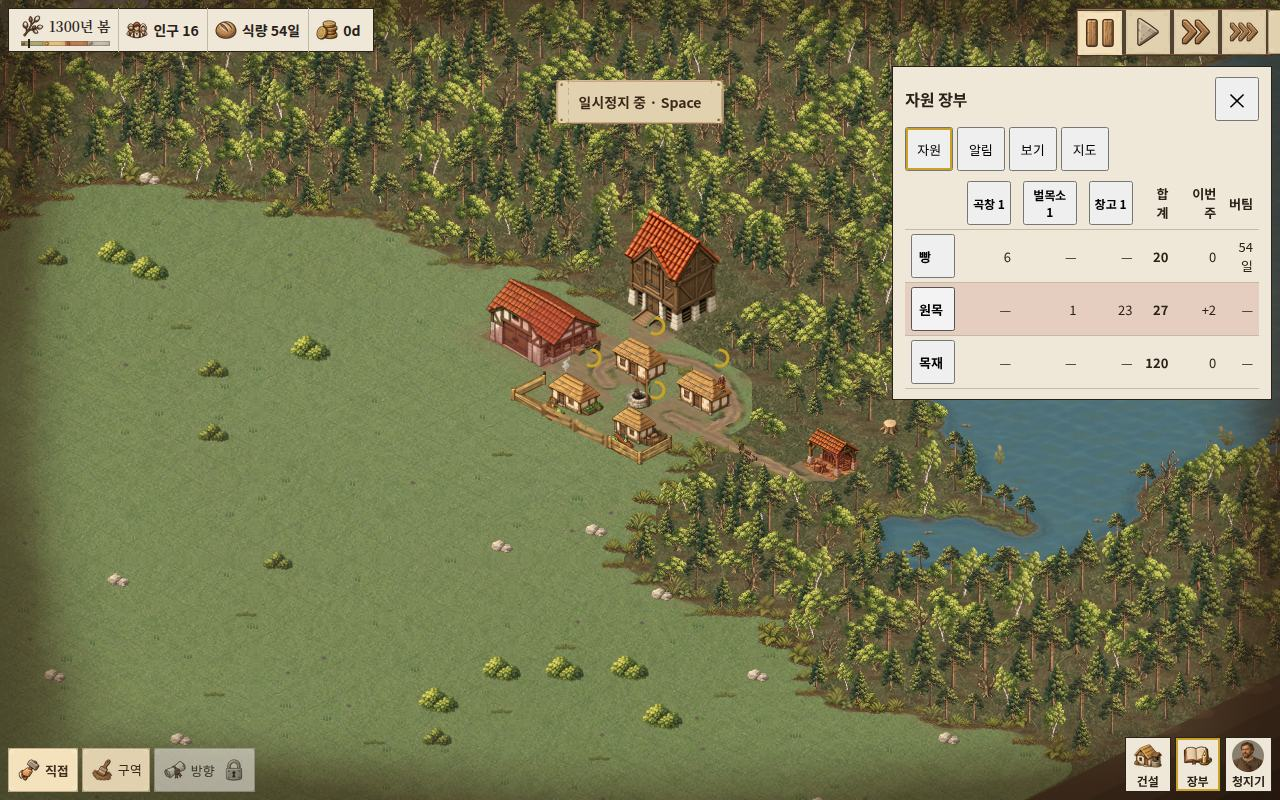
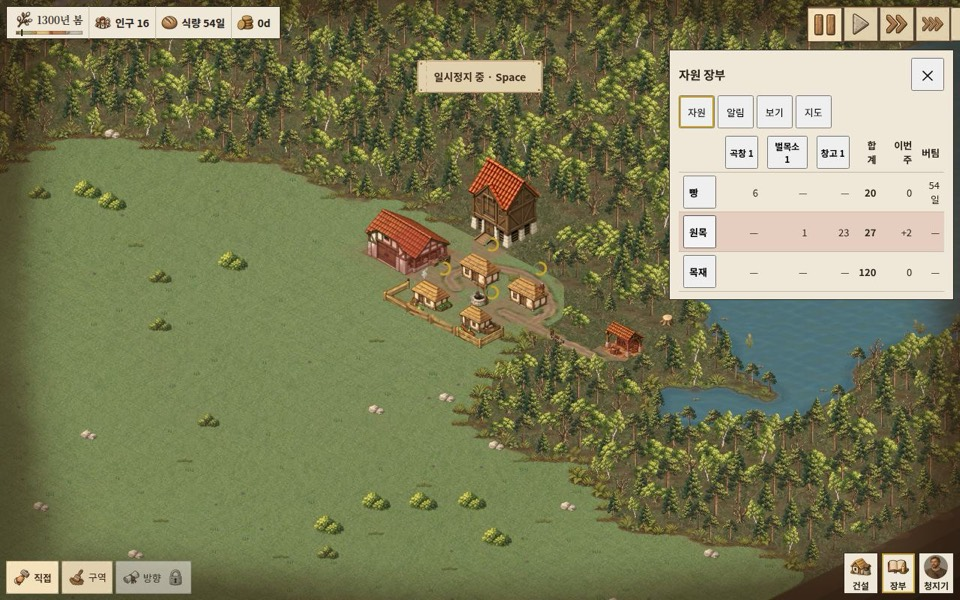
UX-3R2: report, evidence (JPEG, 1.4 MB), design US-5..US-8 and decisions US-D9..D16, STATUS and roadmap (UX-3R2 done); ledger cells stay on one line

diff --git a/docs/ROADMAP.html b/docs/ROADMAP.html
@@ -233,7 +233,7 @@ details summary{cursor:pointer;font-weight:600}
 <li>변경은 문서 하단 이력에 한 줄(날짜·세션·무엇).</li>
 <li>이 문서와 <code>AGENTS.md</code>·<code>CLAUDE.md</code>가 충돌하면 이 문서가 우선이고, 충돌을 이력에 적는다.</li>
 </ol>
-<details><summary>변경 이력</summary><ul id="history"><li>2026-09-26 · Claude(프로젝트 대화) · v5.1 최초 작성(조사 12·13·14·15 반영)</li><li>2026-09-26 · Claude · 기록·연대기 설계 v1 반영: F0-C2 기록 원장, CHRON-1 연대기 화면, CHRON-2 세력 연대기 추가(정체성 6 "모든 것이 남는다")</li><li>2026-09-26 · Claude Code(인프라·문서 세션, DOC-1) · 저장소에 넣음(설계 docs/design/CHRONICLE_DESIGN.md 함께). TASKS를 본선 25820693 기준으로 맞춤: INSTALL-7·INSTALL-11·REMOTE-1 완료, UX-3R 진행 중, F0-B·F0-C1·F0-V·INBOX 비고 갱신, R0(완료) 추가. 충돌 2건: ① 헌장 4절 "merge·push → 브랜치 삭제"와 AGENTS.md 규칙 14 "브랜치 삭제는 명시 지시가 있을 때만" — 사용자 판정 전까지 규칙 14를 따른다 ② 이 문서 1절은 정체성 6("모든 것이 남는다")을 더했지만 CHARTER.md·AGENTS.md 0절은 "정체성 다섯" — 이 문서가 우선, 헌장 반영은 사용자 판정 대기</li><li>2026-09-26 · Claude Code(인프라·문서 세션) · 사용자 판정으로 두 충돌 해소: ① AGENTS.md 규칙 14를 "병합 뒤 브랜치 삭제가 기본, 지시서가 남겨 두라고 명시하면 예외"로 고쳐 헌장 4절과 맞춤 ② 정체성 6 "모든 것이 남는다"를 CHARTER.md·AGENTS.md 0절·CLAUDE.md에 넣어 여섯으로 맞춤</li><li>2026-09-26 · Claude Code(렌더 세션) · UX-3R 1차 병합(done), 2차를 UX-3R2(todo)로 나눔</li><li>2026-09-26 · Claude Code(렌더 세션) · UI-3 병합(done)</li><li>2026-09-26 · Claude Code(엔진 세션) · F0-C1 완료(1장 완주 5/5, 가드레일 4/5 seed 3 알려진 정지 FC11), BOT-2 범위에 통나무 넘침 추가(사용자 지시)</li><li>2026-09-26 · Claude Code(엔진 세션) · F0-C2 완료(기록 원장 v0, seed 2 1장 2,806건·+765KB, 가드레일 4/5 seed 3 알려진 정지 FC11)</li><li>2026-09-26 · Claude Code(렌더 세션) · J1 판정 네 가지 반영(done): 식량 저장분만·도착점 병기, 키아트 빌드 시 파생본, 돈 = 페니</li></ul></details>
+<details><summary>변경 이력</summary><ul id="history"><li>2026-09-26 · Claude(프로젝트 대화) · v5.1 최초 작성(조사 12·13·14·15 반영)</li><li>2026-09-26 · Claude · 기록·연대기 설계 v1 반영: F0-C2 기록 원장, CHRON-1 연대기 화면, CHRON-2 세력 연대기 추가(정체성 6 "모든 것이 남는다")</li><li>2026-09-26 · Claude Code(인프라·문서 세션, DOC-1) · 저장소에 넣음(설계 docs/design/CHRONICLE_DESIGN.md 함께). TASKS를 본선 25820693 기준으로 맞춤: INSTALL-7·INSTALL-11·REMOTE-1 완료, UX-3R 진행 중, F0-B·F0-C1·F0-V·INBOX 비고 갱신, R0(완료) 추가. 충돌 2건: ① 헌장 4절 "merge·push → 브랜치 삭제"와 AGENTS.md 규칙 14 "브랜치 삭제는 명시 지시가 있을 때만" — 사용자 판정 전까지 규칙 14를 따른다 ② 이 문서 1절은 정체성 6("모든 것이 남는다")을 더했지만 CHARTER.md·AGENTS.md 0절은 "정체성 다섯" — 이 문서가 우선, 헌장 반영은 사용자 판정 대기</li><li>2026-09-26 · Claude Code(인프라·문서 세션) · 사용자 판정으로 두 충돌 해소: ① AGENTS.md 규칙 14를 "병합 뒤 브랜치 삭제가 기본, 지시서가 남겨 두라고 명시하면 예외"로 고쳐 헌장 4절과 맞춤 ② 정체성 6 "모든 것이 남는다"를 CHARTER.md·AGENTS.md 0절·CLAUDE.md에 넣어 여섯으로 맞춤</li><li>2026-09-26 · Claude Code(렌더 세션) · UX-3R 1차 병합(done), 2차를 UX-3R2(todo)로 나눔</li><li>2026-09-26 · Claude Code(렌더 세션) · UI-3 병합(done)</li><li>2026-09-26 · Claude Code(엔진 세션) · F0-C1 완료(1장 완주 5/5, 가드레일 4/5 seed 3 알려진 정지 FC11), BOT-2 범위에 통나무 넘침 추가(사용자 지시)</li><li>2026-09-26 · Claude Code(엔진 세션) · F0-C2 완료(기록 원장 v0, seed 2 1장 2,806건·+765KB, 가드레일 4/5 seed 3 알려진 정지 FC11)</li><li>2026-09-26 · Claude Code(렌더 세션) · J1 판정 네 가지 반영(done): 식량 저장분만·도착점 병기, 키아트 빌드 시 파생본, 돈 = 페니</li><li>2026-09-26 · Claude Code(렌더 세션) · UX-3R2 병합(done)</li></ul></details>
 </div>
 </section>
 </main>
@@ -261,7 +261,7 @@ const TASKS = [
  {id:"INSTALL-11", phase:"F0", track:"렌더", title:"건물 계열별 공사 키트(Wave 11)", status:"done", gate:"계열 4×4단계 캡처", deps:["INSTALL-7"], note:"121e16b8 · 관문 ①~⑥ 통과, 클론 5956193 2,954/2,954"},
  {id:"UX-3R", phase:"F0", track:"렌더", title:"UI 상태 기계·상시 4항목·행동 도크·건설 서랍·배치 색+패턴+이유 (조사 15, 1차)", status:"done", gate:"상태별 면적 예산 자동 측정 · 도구 선택 전 안내 0 · 회귀 0", deps:["INSTALL-11"], note:"1차 병합 · 면적 18/18, 튜토리얼 13·B9 13/13·TOUCH-1, 클론 9d355f3 3,001/3,001 · 사용자 판정 대기"},
  {id:"J1", phase:"F0", track:"렌더", title:"사용자 판정 네 가지: 식량 N일(저장분만, 도착점 병기)·결산 카드 켬·키아트 웹 파생본·돈 = 페니", status:"done", gate:"새 게임 270일 확인 · 파생본 300KB 안팎", note:"본선 병합"},
- {id:"UX-3R2", phase:"F0", track:"렌더", title:"UX-3 수정본 2차: 구역 도구 막대·칠할 땅 오버레이·저장소/공사장 inspector·장부 행 강조·태블릿 확정 막대·길 클릭-클릭", status:"todo", gate:"구역·선택 면적 예산 · B9 새 기준(선 도구) · 회귀 0", deps:["UX-3R"]},
+ {id:"UX-3R2", phase:"F0", track:"렌더", title:"UX-3 수정본 2차: 구역 판·칠할 땅 오버레이·저장소/공사장 inspector·장부 행렬·길/목책 클릭-클릭·태블릿 확정 막대", status:"done", gate:"구역·선택 면적 예산 · B9 새 기준(선 도구) · 회귀 0", deps:["UX-3R"], note:"관문 ①~⑦ 통과(면적 24/24, 튜토리얼 22=22, B9·TOUCH 14/14) · 받는 품목 토글은 엔진 대기(FC10) · 사용자 판정 대기"},
  {id:"INSTALL-18", phase:"F0", track:"렌더", title:"최소 HUD 아이콘·패턴 교체(Wave 18)", status:"todo", gate:"흑백에서 가능/불가 구분", deps:["UX-3R"]},
  {id:"UI-3", phase:"F0", track:"렌더", title:"계절 결산 카드·계절 띠·배치 장부 예측·압력 원인·보릿고개 경고·타이틀(Wave 8) — UX-3 규칙 위에", status:"done", gate:"결산 캡처 3계절 · 예측 줄 = 실제 장부", deps:["UX-3R"], note:"관문 ①~⑦ 통과, 클론 dca8c3a 3,006/3,006 · 청원·연대기 틀은 등록만 · 사용자 판정 대기"},
  {id:"UI-4", phase:"F0", track:"렌더", title:"사건 카드·대기근 결정·청원·연대기·장 끝 + Wave 9·16 설치 + S12 짐 진 가족", status:"todo", gate:"1장 사건 전부 화면에 · 연대기 1쪽", deps:["UI-3","F0-C1","F0-C2"]},

diff --git a/src/styles/hudShell.css b/src/styles/hudShell.css
@@ -63,7 +63,7 @@
 .app-shell .ledger-tab { min-height: 44px; padding: 0 10px; font-size: 13px; }
 .app-shell .ledger-tab[aria-selected="true"] { outline: 2px solid var(--palette-gold); outline-offset: -3px; }
 .app-shell .ledger-matrix { width: 100%; border-collapse: collapse; font-size: 13px; }
-.app-shell .ledger-matrix :is(th, td) { padding: 4px 6px; text-align: right; border-bottom: 1px solid var(--palette-parchment-dark); }
+.app-shell .ledger-matrix :is(th, td) { padding: 4px 6px; text-align: right; white-space: nowrap; border-bottom: 1px solid var(--palette-parchment-dark); }
 .app-shell .ledger-matrix th[scope="row"] { text-align: left; }
 .app-shell .ledger-store { min-height: 44px; padding: 0 4px; font-size: 12px; }
 .app-shell .ledger-total { font-weight: 700; }

diff --git a/docs/verification/ux3r2/REPORT.md b/docs/verification/ux3r2/REPORT.md
@@ -1,0 +1,72 @@
+관문: ① 상태별 면적 24/24 · ② 구역 판·칠할 땅·되돌리기/다시·우클릭 지우기 · ③ 저장소 inspector·장부 행렬·행 강조 · ④ 길·목책 클릭-클릭(B9 새 기준 14/14) · ⑤ 태블릿 확정 막대 · ⑥ 튜토리얼 22 = 22·B9·TOUCH-1 회귀 0 · ⑦ 성능(DGX)·클론 — 통과. ⑧ 사용자 판정 대기
+
+# UX-3 수정본 2차 — 구역 판·칠할 땅·저장소 inspector·장부 행렬·길/목책 클릭-클릭·태블릿 확정 막대
+
+- **범위:** UX-3R 지시서 5·6·8절과 4절의 선 도구다(1차 보고서의 "남은 것" 전부). 렌더·UI·입력 변환·스타일·스크립트·테스트·문서만 바꿨다. 엔진·state·save·content·zones·population은 0줄이다(엔진 규칙은 읽기만 했다).
+- **검증:** DGX(`scripts/remote/run.sh`, `scripts/ux3r2Verification.sh` = UX-3 묶음 + UX-3R2 캡처)에서 돌렸다. 비교 대상은 본선 `67c8c2ec`(J1 병합 직후)다.
+- **명세:** [UI 상태 설계](../../design/UI_STATE_DESIGN.md) US-5~US-8, 결정 US-D9~US-D16.
+
+## 관문
+| 관문 | 결과 | 증빙 |
+|---|---|---|
+| ① 상태별 면적 | 여덟 행 × 세 해상도 = 24칸 모두 예산 안(아래 표). 새 행은 두 가지다. 구역 상태를 종류 하나를 든 채로 한 번 더 잰 행(범례 포함), 선택 상태를 곡창 저장소 카드로 한 번 더 잰 행이다. | `hud-coverage.json` |
+| ② 구역 | 경작지를 들면 지도 전체가 세 단계로 칠해진다(헛간이 닿는 땅 / 헛간·길 멂 / 물·성벽 안 사선). 필지는 길가 3칸이 좋음이다. 획 하나로 31칸 → 되돌리기 0 → 다시 31 → 우클릭 13칸 지움(18). 다각형은 닫기 전에 "20칸"을 보인다. | `ux3r2/zone-*.jpg`, `ux3r2-captures.json` |
+| ③ 선택·장부 | 곡창 카드는 "6 / 200 · 들어올 몫 14", 받는 품목 밀·빵, 품목별 재고·이번 주, 배급꾼 2명이다. 창고 카드는 원목 23 이번 주 +2, "벌목소에서 원목 들여옴"이다. 장부의 원목 행을 누르면 원목을 둔 건물을 지도에서 밝힌다. 열 머리 "곡창 1"을 누르면 저장소 inspector가 슬롯에 뜬다. | `ux3r2/store-*.jpg`, `ledger-*.jpg` |
+| ④ 선 도구 | 길은 네 가지를 확인했다(길 14 → 15 → 19 → 20칸).<br>• 첫 클릭이 한 칸을 놓고 기준점이 된다.<br>• 포인터까지 미리보기가 나오고, 두 번째 클릭이 4칸 선을 놓는다.<br>• Enter 뒤 클릭은 새로 한 칸이다.<br>• B9 입력 재생은 본선과 14/14 같다. 새 단계 하나를 더했다. 이 빌드는 두 번 클릭 + Enter, 본선은 한 칸 + 끌기로 같은 두 편집을 한다.<br>목책 클릭-클릭은 단위 테스트로 확인했다(선 끝에서 잇기). | `ux3r2/road-chain-*.jpg`, `input-replay.json`, `tests/inputIntents.test.ts` |
+| ⑤ 태블릿 | 1180 × 820 터치에서 우물을 든 채 탭하면 고스트가 손가락 위 80px(40,44)에 선다. 확정 막대가 뜨고, 손을 뗀 뒤에도 공사장은 0개다. [확정]을 누르면 공사장 1개가 (40,44)에 서고, 막대는 사라지고 도구는 남는다. | `ux3r2/tablet-confirm-bar.jpg` |
+| ⑥ 회귀 | 네 가지를 봤다.<br>• 튜토리얼 13단계를 22번 눌러 통과했다(본선 22). 잠금이 일치한다.<br>• B9 재생 14/14, TOUCH-1 재생 14/14.<br>• 게임패드·포커스 복귀를 통과했다.<br>• 터치 대상·글자 크기 미달은 0이다.<br>전체 테스트는 3,036/3,036이다. | `gates.json`, `replay*/replay.json`, `touch-*.json` |
+| ⑦ 성능·클론 | `perf.md` 참조(본선과 번갈아 두 번). 깨끗한 클론은 아래 병합 커밋에서 돌렸다. | `perf.md` |
+| ⑧ 사용자 판정 | 대기 | — |
+
+| 상태 | 1280 × 800 (PC 예산) | 1920 × 1080 | 1180 × 820 태블릿 (예산) |
+|---|---|---|---|
+| 평소 | 5.6 % (6) | 2.8 % | 6.1 % (8) |
+| 건설 서랍 | 14.3 % (15) | 6.9 % | 17.5 % (20) |
+| 배치 | 5.4 % (6) | 2.7 % | 5.8 % (9) |
+| 구역 | 6.8 % (8) | 3.4 % | 7.3 % (12) |
+| 구역 · 종류 듦 | 7.4 % (8) | 3.6 % | 7.9 % (12) |
+| 선택(집) | 16.5 % (18) | 8.2 % | 17.3 % (24) |
+| 선택(저장소) | 16.1 % (18) | 8.0 % | 17.2 % (24) |
+| 장부 서랍 | 16.5 % (25) | 8.2 % | 17.7 % (30) |
+
+## 만든 것
+- **구역 판** `src/ui/hud/ZoneToolbar.tsx`: 종류 칩 4 + 도구 6(붓·다각형·지우개·되돌리기·다시·크기) + 범례. 붓·다각형은 마지막 종류를 칠한다. 되돌리기·다시는 의도 버스(`undo`, 새 `redo` = Shift+Z/Y)로 간다.
+- **칠할 수 있는 땅** `src/render/zonePaintableLand.ts`: 규칙에서 읽은 세 단계를 행마다 한 평행사변형으로 묶는다(캐시, 0.57–0.75 ms/재계산). 불가는 45° 사선이라 색만으로 가르지 않는다.
+- **구역 입력:**
+  - 우클릭 지우기(`zoneAimedCancel`).
+  - 다시 목록 `src/render/zoneEditHistory.ts`.
+  - 다각형 면적 이름표.
+- **저장소 inspector**: 모델은 `storeInspectorModel`, 기록은 `storeStockHistory`(하루 표본, 한 주 남짓·수레 쓰임 한 계절), 화면은 `StoreInspector`다. 지도 선택 카드(`DiagnosticCard` kind `store`)와 슬롯 inspector에 같이 들어간다.
+- **공사장 첫 줄** `constructionBlockerLine`: 모자라고 오지도 않는 자재, 가장 가까운 재고, 운반꾼을 보인다. 캡처에서는 목재가 이미 오는 중이라 기존 "목재 오는 중 (0/10)"이 첫 줄이었고, 이 줄은 단위 테스트로 확인했다.
+- **장부 서랍**: 이번 주·버팀 열, 행 강조(지도), 열 머리 → 저장소 inspector.
+- **선 도구**:
+  - 길 사슬: `roadChain` 참조, 프레임 미리보기가 기준점에서 나간다.
+  - 더블클릭은 `confirm`이다.
+  - 목책은 `clickPoint`다.
+- **태블릿**: 터치 번역기에 `place` 모드를 더했다(손가락 위 80px 고스트, 떼면 `select`). 기다리는 자리는 `pendingPlacement`에 둔다. 확정 막대 `PlacementConfirmBar`는 확정 = `confirm`, 취소 = `cancel`이다.
+- **관문 스크립트**:
+  - `scripts/ux3r2Captures.mjs`, `scripts/ux3r2Verification.sh`.
+  - `ux3GateSummary`에 UX-3R2 관문 5개를 더했다.
+  - `measureHudCoverage`에 행 두 개를 더했다.
+  - B9·TOUCH 재생에 사슬 단계를 더했다.
+
+## 과정에서 바로잡은 것
+- **첫 클릭이 기준점만 잡던 것:** 처음에는 사슬의 첫 클릭이 아무것도 놓지 않았다. DGX 튜토리얼 재생이 23번(본선 22번)이 됐다. "길 한 칸 내기"가 한 번 눌러서 되지 않았기 때문이다. 첫 클릭이 그 칸을 놓고 기준점이 되게 바꿨다(US-D14). 그러자 옛 한 번 클릭과 결과가 같아졌다.
+- **B9 재생의 사슬 단계:** 앞 단계의 마지막 한 번 클릭이 사슬을 열어 둔 채였다. 그래서 새 단계의 첫 클릭이 거기서 선을 이었다. 새 단계는 Enter로 시작한다. 또 본선은 한 번의 끌기라 편집 횟수(`roadRevision`)가 달랐다. 본선도 한 칸 + 끌기로 같은 두 편집을 한다.
+- **구역 상태 면적:** 종류 칩을 서랍에, 도구 막대를 따로 두니 1280 구역이 8.1 %(종류 들면 9.4 %)로 넘었다. 한 판으로 합쳐 6.8 %(7.4 %)가 됐다(US-D11).
+- **태블릿 캡처:** 처음 고른 자리(48,38)는 오두막의 "길에 닿아야 함"으로 불가였다. 고스트와 막대는 맞았지만 확정해도 지을 수 없었다. 빈 땅(40,44)의 우물로 바꿨다.
+
+## 결정 (US-D9~US-D16, 설계서에 이유)
+- D9: 구역 우클릭은 지우기다.
+- D10: 칠할 땅은 가꿀 수 있는지를 보인다. 엔진에 비옥도 지도가 없다.
+- D11: 구역 판은 하나다(면적).
+- D12: 받는 품목은 읽기 전용이다. 엔진에 창고별 설정이 없다(FC10). 엔진 작업 대기.
+- D13: 다시는 화면 쪽이다.
+- D14: 한 번 클릭은 그대로, 사슬은 그 위에(B9 새 기준).
+- D15: 확정 막대는 태블릿의 건물 도구만.
+- D16: 목책 클릭은 선 끝에서 잇는다.
+
+## 판정을 받을 선택지
+- **길 사슬:** 떨어진 곳에 한 칸씩 놓을 때는 칸마다 사슬을 끝내야 한다(Enter/Esc). 끝내지 않으면 다음 클릭이 선으로 잇는다. 한 칸 놓기를 사슬 없이 두고, 사슬은 Shift+클릭으로만 여는 대안이 있다.
+- **"받는 품목 토글":** 엔진 규칙이 생기면 칩을 누를 수 있게 바꾼다.
+- **칠할 땅 세 단계:** 지금은 도달 거리로 가른다. 비옥도가 생기면 같은 자리에 바꿔 넣는다.

diff --git a/docs/STATUS.md b/docs/STATUS.md
@@ -1,11 +1,17 @@
 # 현재 상태
 
-갱신: 2026-09-26(J1 판정 네 가지 · F0-C2 · UI-3 · UX-3R 1차 · F0-C1 · F0-B · INSTALL-11 · INSTALL-7 · R0 · F0-V · F0-A · INSTALL-5c · UX-2 · UX-1 · MOVE-1 · FIX-1 · BOT-1 완료 · INSTALL-4e · TOUCH-1 · PLAY-1 · V2 · C3 · C1f · C1c-2 · B9 · D3b 벽 띠 플래그 · D3b · D3a · C1e · C1d · C1c · C2 · C1b · B3 · D1a-2 · B5+C1a). 제품 본선: `codex/phase15-organic-ground`.
+갱신: 2026-09-26(UX-3R2 · J1 판정 네 가지 · F0-C2 · UI-3 · UX-3R 1차 · F0-C1 · F0-B · INSTALL-11 · INSTALL-7 · R0 · F0-V · F0-A · INSTALL-5c · UX-2 · UX-1 · MOVE-1 · FIX-1 · BOT-1 완료 · INSTALL-4e · TOUCH-1 · PLAY-1 · V2 · C3 · C1f · C1c-2 · B9 · D3b 벽 띠 플래그 · D3b · D3a · C1e · C1d · C1c · C2 · C1b · B3 · D1a-2 · B5+C1a). 제품 본선: `codex/phase15-organic-ground`.
 
 **로드맵**: [`ROADMAP.html`](ROADMAP.html)(비전·화면·로드맵, 작업 상태는 5절 `TASKS` 배열) · 헌장 [`CHARTER.md`](CHARTER.md).
 - **상태 변경 시 두 곳을 갱신한다.** `ROADMAP.html`의 `TASKS`(status·note, 변경 이력 한 줄)와 이 파일을 같은 커밋에서 고친다.
 
 ## 현재 단계
+
+- **UX-3R2 구역 판·칠할 땅·저장소 inspector·장부 행렬·길/목책 클릭-클릭·태블릿 확정 막대 — 관문 ①~⑦ 통과, ⑧ 사용자 판정 대기, 본선 병합**(Claude Code, 렌더·UI·입력·스타일·스크립트·테스트·문서만, 엔진 0줄, 검증 DGX): [UI 상태 설계](design/UI_STATE_DESIGN.md) US-5~US-8, [보고서](verification/ux3r2/REPORT.md), 결정 US-D9~US-D16.
+  - 구역: 왼쪽 한 판(종류 4 + 붓·다각형·지우개·되돌리기·다시·크기 + 범례), 칠할 땅 세 단계(규칙에서 읽음, 불가는 사선), 우클릭 지우기, 다각형 면적.
+  - 저장소 inspector(용량·받는 품목·품목별 재고와 이번 주·쓰는 곳·위치로), 공사장 첫 줄, 장부 이번 주·버팀·행 강조·열 머리 → inspector.
+  - 길 클릭-클릭(한 번 클릭은 그대로, 사슬은 그 위에), 목책 클릭, 태블릿 = 손가락 위 80px 고스트 + 확정 막대.
+  - 면적 24/24, 튜토리얼 22 = 22, B9 14/14(새 기준), TOUCH 14/14. 받는 품목 끄고 켜기는 엔진 규칙 대기(FC10).
 
 - **J1 사용자 판정 네 가지 — 본선 병합**(Claude Code, 렌더·UI·스크립트·대장·테스트·문서만, 엔진 0줄): [보고서](verification/j1-judgements/REPORT.md).
   - 알약 식량은 창고·곡창 저장분만(새 게임 270일은 곡창 빵 30 ÷ 네 집 한 끼 1개로 맞음, 수레 위 빵은 뺌), 날짜 펼침에 "식량 N일 — 겨울 초까지".
